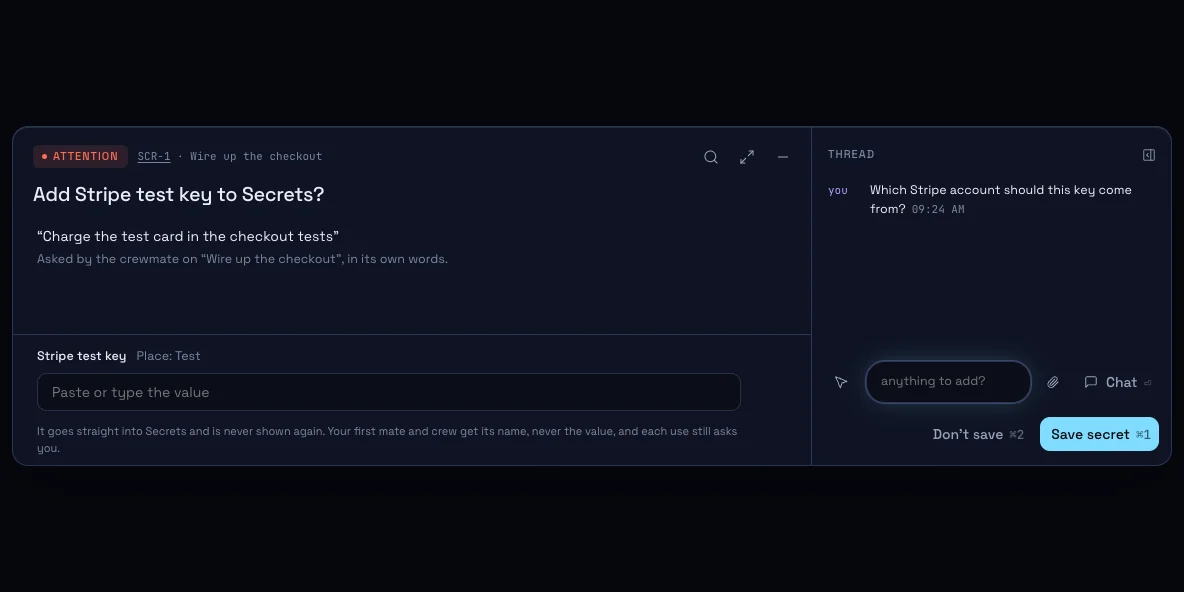
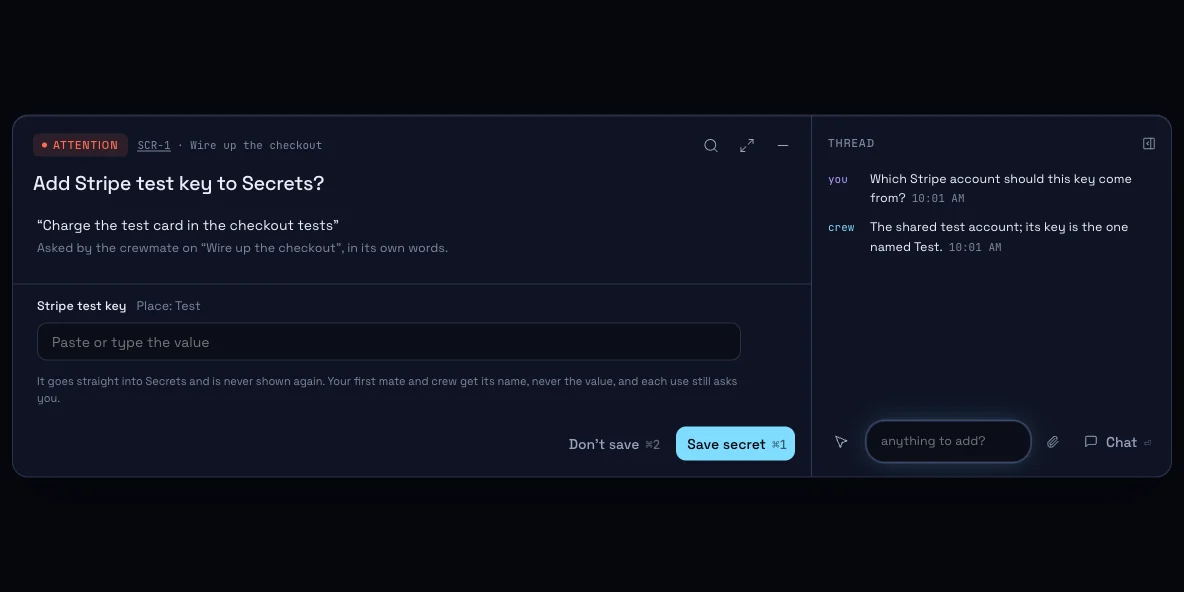
test(cards): check the asking crewmate's answer lands in the secret card's thread

diff --git a/tests/e2e/app-card-asker-replies.spec.ts b/tests/e2e/app-card-asker-replies.spec.ts
@@ -20,6 +20,7 @@ const REASON = "Charge the test card in the checkout tests";
 const QUESTION = "Which Stripe account should this key come from?";
 const LEFT_WORDS = "Use the shared test account's key instead; I will add it myself.";
 const DRAFT = "Open it as a draft, please.";
+const ANSWER = "The shared test account; its key is the one named Test.";
 const SIZE = { width: 1280, height: 860 };
 
 /** What the app told the asking crewmate, each steer whole, as its task's record keeps it. */
@@ -75,8 +76,9 @@ async function askForASecret(app: Awaited<ReturnType<typeof launchSecrets>>["app
 // Data: an invented ask through the real task command, app, renderer, IPC and
 // task record, over the disposable custody and mock model of `launchSecrets`.
 // Completion: the reply and the Don't save words each reach the asking
-// crewmate as a steer with the app card's own words, and the card's own face
-// holds no reply field.
+// crewmate as a steer with the app card's own words, the crewmate's line
+// naming the captain's message answers it in the thread, and the card's own
+// face holds no reply field.
 // Prerequisites: Electron and the built renderer; no account, native store or
 // network. Shared resources: none beyond its own scratch folders.
 test("the asker hears a reply on its secret card, and Chat opens the thread there", async () => {
@@ -109,6 +111,29 @@ test("the asker hears a reply on its secret card, and Chat opens the thread ther
     await expect
       .poll(async () => (await steersHeard(page)).find((text) => text.includes(QUESTION)))
       .toContain(THREAD_APP_CARD_PREAMBLE);
+
+    // The asking crewmate answers through its reply tool's handler, naming the
+    // captain's message, and the line answers it in the card's thread.
+    const cardId = (await listedCard(page, { title })).id;
+    const answered = await app.evaluate(
+      (_electron, { taskId, cardId, answer }) => {
+        const cards = (globalThis as SecretsJourneyGlobal).secretsJourney.core.services.supervisor
+          .cards;
+        const question = cards.messages(cardId).findLast((line) => line.who === "captain");
+        if (!question) throw new Error("The captain's message is not in the thread.");
+        const said = cards.replyFromCrewmate(taskId, {
+          cardId,
+          text: answer,
+          answersMessage: question.id,
+        });
+        return { said, owed: cards.answerOwed(cardId) };
+      },
+      { taskId: TASK.id, cardId, answer: ANSWER },
+    );
+    expect(answered.said).toContain("Replied in the thread");
+    expect(answered.owed).toBe(false);
+    await expect(thread).toContainText(ANSWER);
+
     const pair = shownEntry(page);
     await picture(pair, "secret-card-thread-after");
     if (process.env.INFINITARY_TASK_EVIDENCE_DIR && test.info().repeatEachIndex === 0)
@@ -117,8 +142,8 @@ test("the asker hears a reply on its secret card, and Chat opens the thread ther
     // Words left in the thread's field at Don't save ride the outcome to the asker.
     await focusOn(reply.field);
     await typeInto(reply.field, LEFT_WORDS);
-    // With the thread open its buttons sit at the foot of the pair, under the thread.
-    const dontSave = shownEntry(page).getByRole("button", {
+    // With the thread open its buttons stay under the masked field.
+    const dontSave = card.getByRole("button", {
       name: SECRET_ASK_CARD_WORDS.dontSave,
     });
     await focusOn(dontSave);
